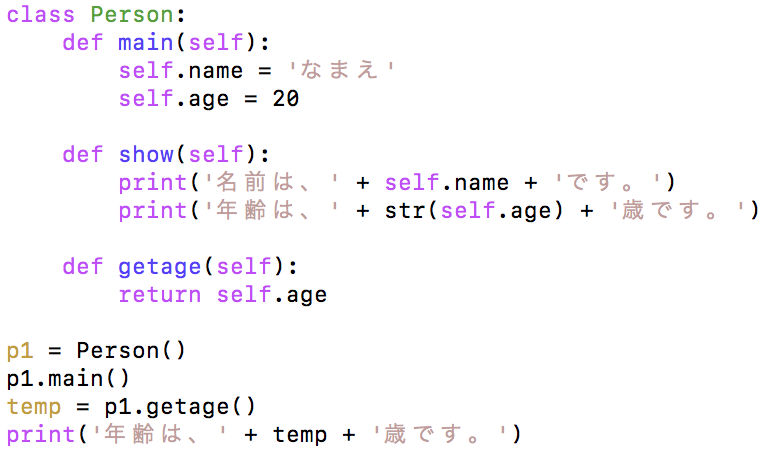
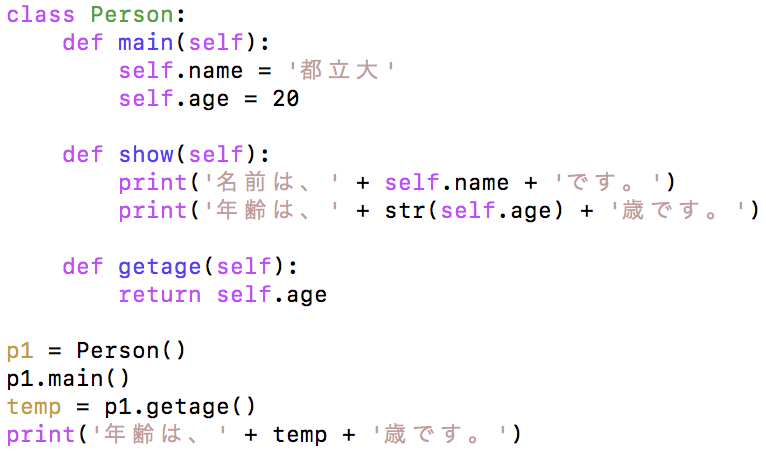
fixed bugs

diff --git a/contents/python/basic/08/prog/Hito0.py b/contents/python/basic/08/prog/Hito0.py
@@ -1,6 +1,6 @@
 class Person:
     def main(self):
-        self.name = 'なまえ'
+        self.name = '都立大'
         self.age = 20
         print('名前は、' + self.name + 'です。')
         print('年齢は、' + str(self.age) + '歳です。')

diff --git a/contents/python/basic/08/prog/Hito.py b/contents/python/basic/08/prog/Hito.py
@@ -1,6 +1,6 @@
 class Person:
     def main(self):
-        self.name = 'なまえ'
+        self.name = '都立大'
         self.age = 20
 
     def show(self):

diff --git a/contents/python/basic/08/prog/Hito1.py b/contents/python/basic/08/prog/Hito1.py
@@ -1,6 +1,6 @@
 class Person:
     def main(self):
-        self.name = 'なまえ'
+        self.name = '都立大'
         self.age = 20
 
     def show(self):

diff --git a/contents/python/basic/08/prog/Hito2.py b/contents/python/basic/08/prog/Hito2.py
@@ -1,6 +1,6 @@
 class Person:
     def main(self):
-        self.name = 'なまえ'
+        self.name = '都立大'
         self.age = 20
 
     def show(self):
